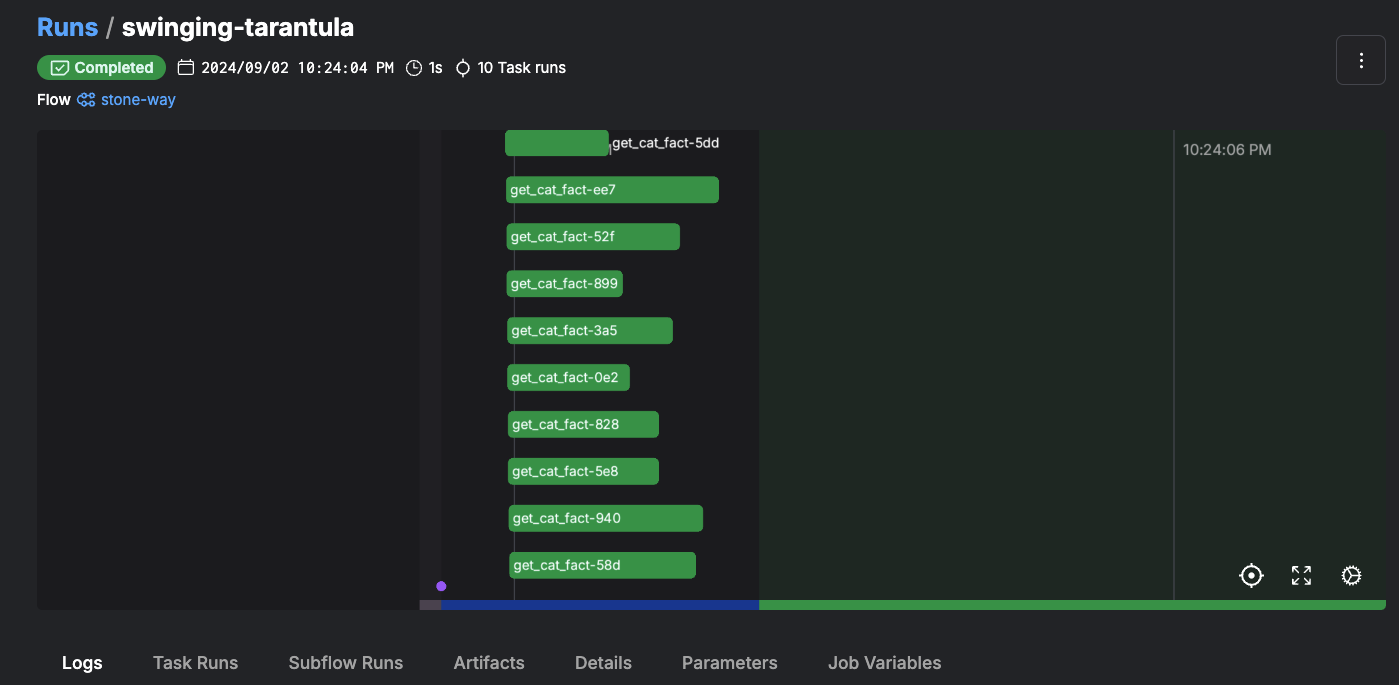
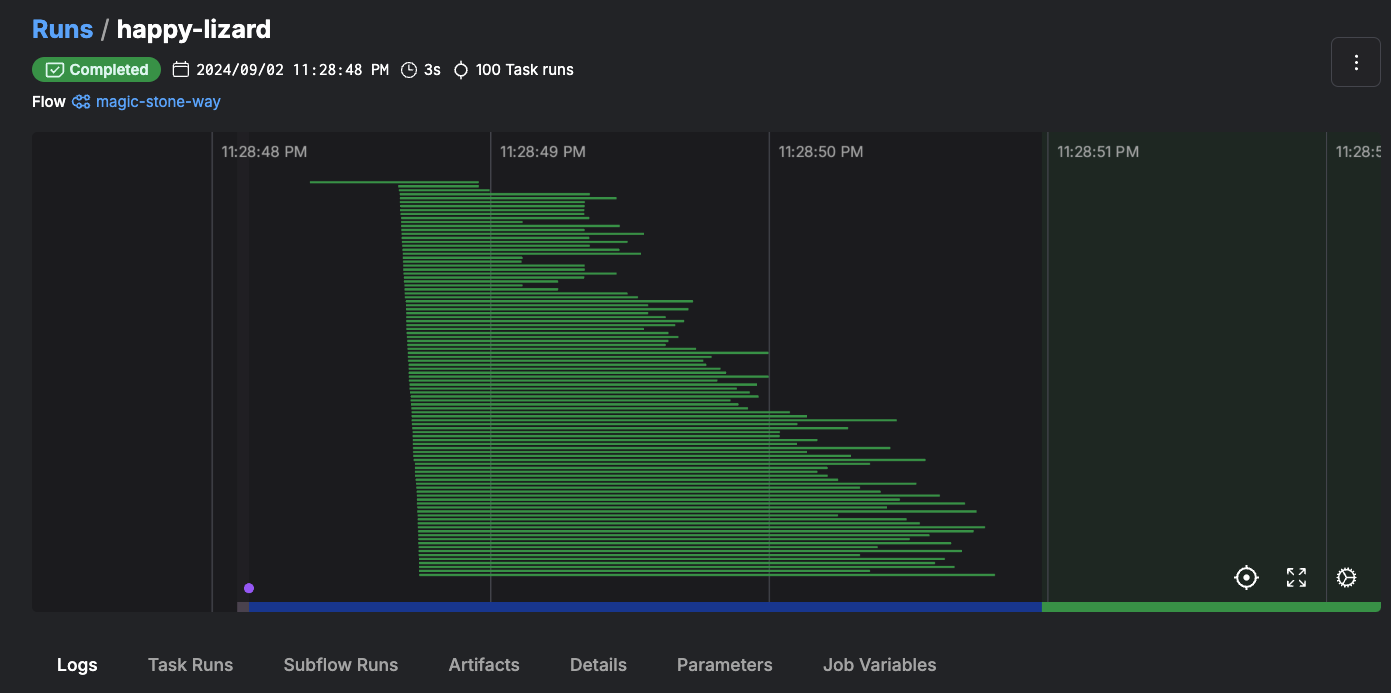
moar tasks;

diff --git a/posts/3_grug_benchmarks_prefect.md b/posts/3_grug_benchmarks_prefect.md
@@ -9,7 +9,7 @@ date: "2024-09-02"
 
 grug hear internet have many cat facts - want cat facts fast, grug brain go purrrrr.
 
-grug scratch head, then idea come. grug try three way:
+grug scratch head, then idea come. grug try three way to get 100 cat facts:
 
 <br>
 
@@ -31,15 +31,17 @@ grug start simple. grug know `for` loop. `for` loop like caveman tool, always wo
 import httpx
 import time
 
+MAX_CAT_FACT_LENGTH = 500
+
 def get_cat_fact(max_length: int) -> str:
     response = httpx.get(f"https://catfact.ninja/fact?max_length={max_length}")
     return response.json()["fact"]
 
-def grug_way():
+def grug_way(n: int = 100):
     start_time = time.time()
     cat_facts = []
-    for _ in range(10):
-        cat_facts.append(get_cat_fact(100))
+    for _ in range(n):
+        cat_facts.append(get_cat_fact(MAX_CAT_FACT_LENGTH))
     end_time = time.time()
     return cat_facts, end_time - start_time
 
@@ -51,7 +53,7 @@ print(f"grug first fact: {facts[0]}")
 grug run code, see result:
 
 ```
-grug time: 1.40 seconds
+grug time: 13.64 seconds
 grug first fact: Cats have over 20 muscles that control their ears.
 ```
 
@@ -69,14 +71,16 @@ import httpx
 from prefect import flow, task
 import time
 
+MAX_CAT_FACT_LENGTH = 500
+
 async def get_cat_fact(max_length: int) -> str:
     async with httpx.AsyncClient() as client:
         response = await client.get(f"https://catfact.ninja/fact?max_length={max_length}")
         return response.json()["fact"]
 
-async def fancy_way():
+async def fancy_way(n: int = 100):
     start_time = time.time()
-    tasks = [get_cat_fact(100) for _ in range(10)]
+    tasks = [get_cat_fact(MAX_CAT_FACT_LENGTH) for _ in range(n)]
     cat_facts = await asyncio.gather(*tasks)
     end_time = time.time()
     return cat_facts, end_time - start_time
@@ -89,7 +93,7 @@ print(f"fancy first fact: {facts[0]}")
 grug run fancy code, see result:
 
 ```
-fancy time: 0.33 seconds
+fancy time: 2.42 seconds
 fancy first fact: A cat called Dusty has the known record for the most kittens. She had more than 420 kittens in her lifetime.
 ```
 
@@ -139,15 +143,19 @@ from prefect import flow, task
 import httpx
 import time
 
+MAX_CAT_FACT_LENGTH = 500
+
 @task
 def get_cat_fact(max_length: int) -> str:
     response = httpx.get(f"https://catfact.ninja/fact?max_length={max_length}")
+    if response.status_code != 200:
+        raise ValueError(f"Failed to get cat fact: {response.text}")
     return response.json()["fact"]
 
 @flow
-def magic_stone_way():
+def magic_stone_way(n: int = 100):
     start_time = time.time()
-    cat_facts = get_cat_fact.map([100] * 10).result()
+    cat_facts = get_cat_fact.map([MAX_CAT_FACT_LENGTH] * n).result()
     end_time = time.time()
     return cat_facts, end_time - start_time
 
@@ -159,7 +167,7 @@ print(f"magic stone first fact: {facts[0]}")
 grug run magic stone code, see result:
 
 ```
-magic stone time: 0.43 seconds
+magic stone time: 2.81 seconds
 magic stone first fact: Cat bites are more likely to become infected than dog bites.
 ```
 
